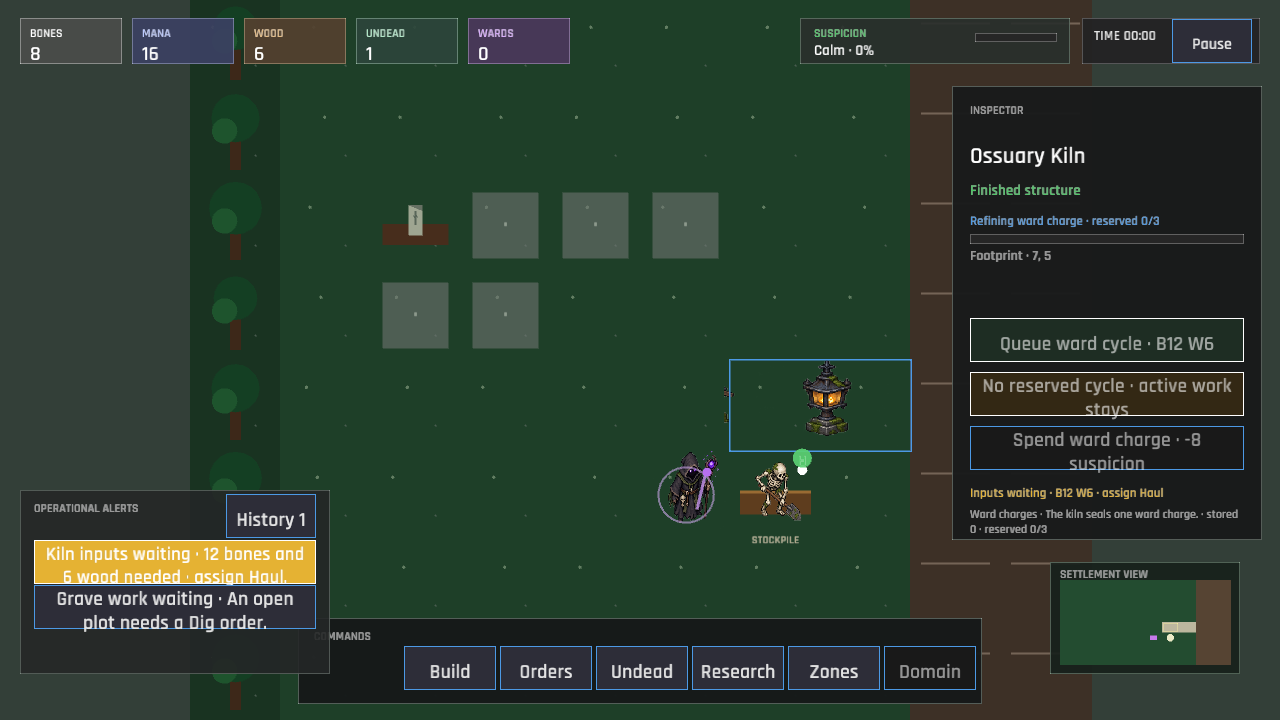
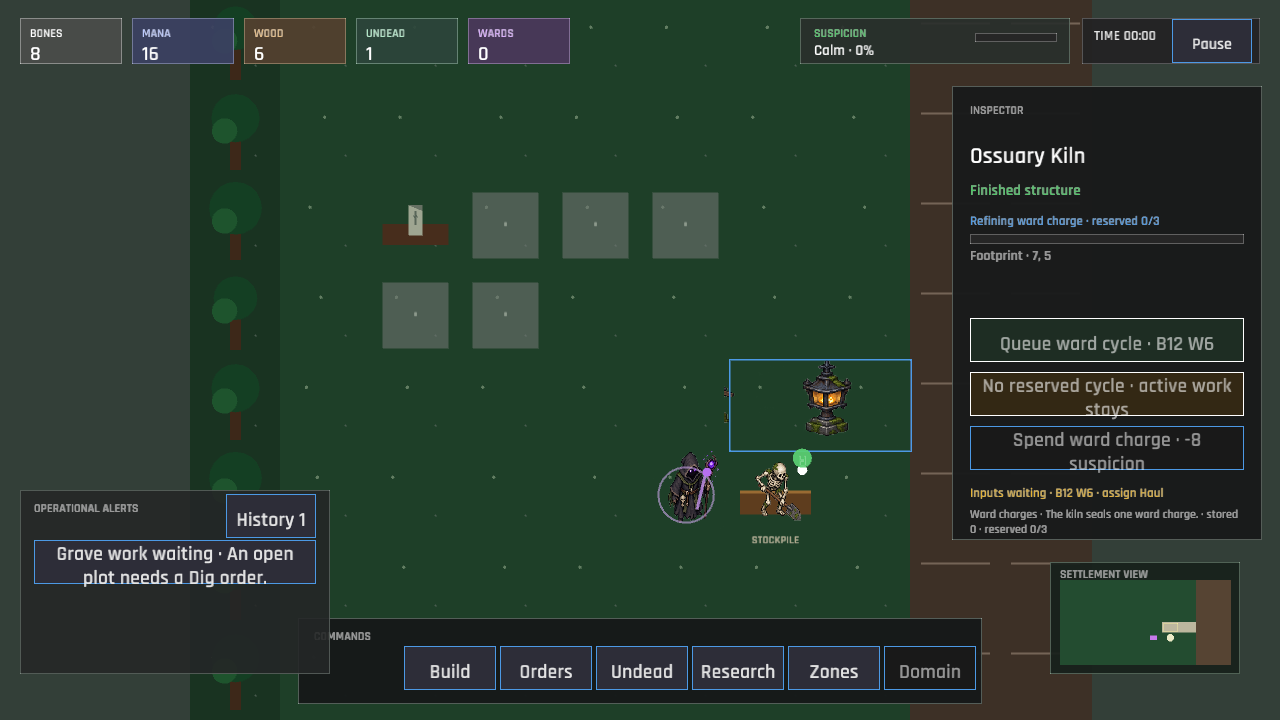
The kiln stops calling when a bone bundle is already on the road (supply alert accuracy)
A committed kiln haul was still accompanied by a warning to assign Haul, making an active recovery route look stalled. Production alerts now quiet while a kiln-bound plan exists, while true shortages remain actionable, and the route captures confirm the clearer worker-led feedback.

Changed region(s): [[0.0, 0.7333, 0.25, 0.8861]]

diff --git a/src/engine/alerts/tests.rs b/src/engine/alerts/tests.rs
@@ -72,6 +72,37 @@ fn missing_kiln_inputs_point_to_the_kiln_before_refining() {
 }
 
 #[test]
+fn kiln_input_alert_quiets_while_a_supply_route_is_committed() {
+    let data = crate::data::GameData::load().unwrap();
+    let mut session = GameSession::new(&data.config);
+    session.progress.production = Some(ProductionOrder {
+        building: BuildingKind::OssuaryKiln,
+        progress: 0.0,
+        bones_remaining: 8,
+        wood_remaining: 6,
+    });
+    session.world.buildings.push(Building {
+        kind: BuildingKind::OssuaryKiln,
+        progress: 14.0,
+        complete: true,
+        position: TilePos::new(6, 4),
+        width: 2,
+        height: 1,
+    });
+    session.workforce.workers[0].haul_plan = Some(crate::state::HaulPlan {
+        resource: crate::state::ResourceKind::Bones,
+        source: crate::state::WorldState::stockpile_position(),
+        destination: crate::engine::progression::production_destination(&session).unwrap(),
+        storage_policy: crate::state::RoutePolicy::MarkedFirst,
+        destination_kind: crate::state::HaulDestination::Kiln,
+    });
+
+    assert!(!collect(&session, &data)
+        .iter()
+        .any(|alert| alert.title == "Kiln inputs waiting"));
+}
+
+#[test]
 fn loose_material_without_a_hauler_points_to_its_source() {
     let data = crate::data::GameData::load().unwrap();
     let mut session = GameSession::new(&data.config);

diff --git a/src/engine/alerts.rs b/src/engine/alerts.rs
@@ -1,7 +1,7 @@
 //! Derived operational alerts that point the player toward real blockers.
 
 use crate::data::{GameData, SuspicionStage};
-use crate::engine::{districts, jobs, navigation};
+use crate::engine::{districts, jobs, navigation, progression};
 use crate::state::{GameSession, JobKind, PlotStatus, Selection, Technology, ZoneKind};
 
 #[derive(Debug, Clone, Copy, PartialEq, Eq)]
@@ -389,6 +389,14 @@ fn collect_production_alert(session: &GameSession, alerts: &mut Vec<OperationalA
         return;
     };
     if order.bones_remaining > 0 || order.wood_remaining > 0 {
+        if session.workforce.workers.iter().any(|worker| {
+            worker.haul_plan.is_some_and(|plan| {
+                plan.destination_kind == crate::state::HaulDestination::Kiln
+                    && progression::production_input_need(session, plan.resource) > 0
+            })
+        }) {
+            return;
+        }
         let target = session
             .world
             .buildings
